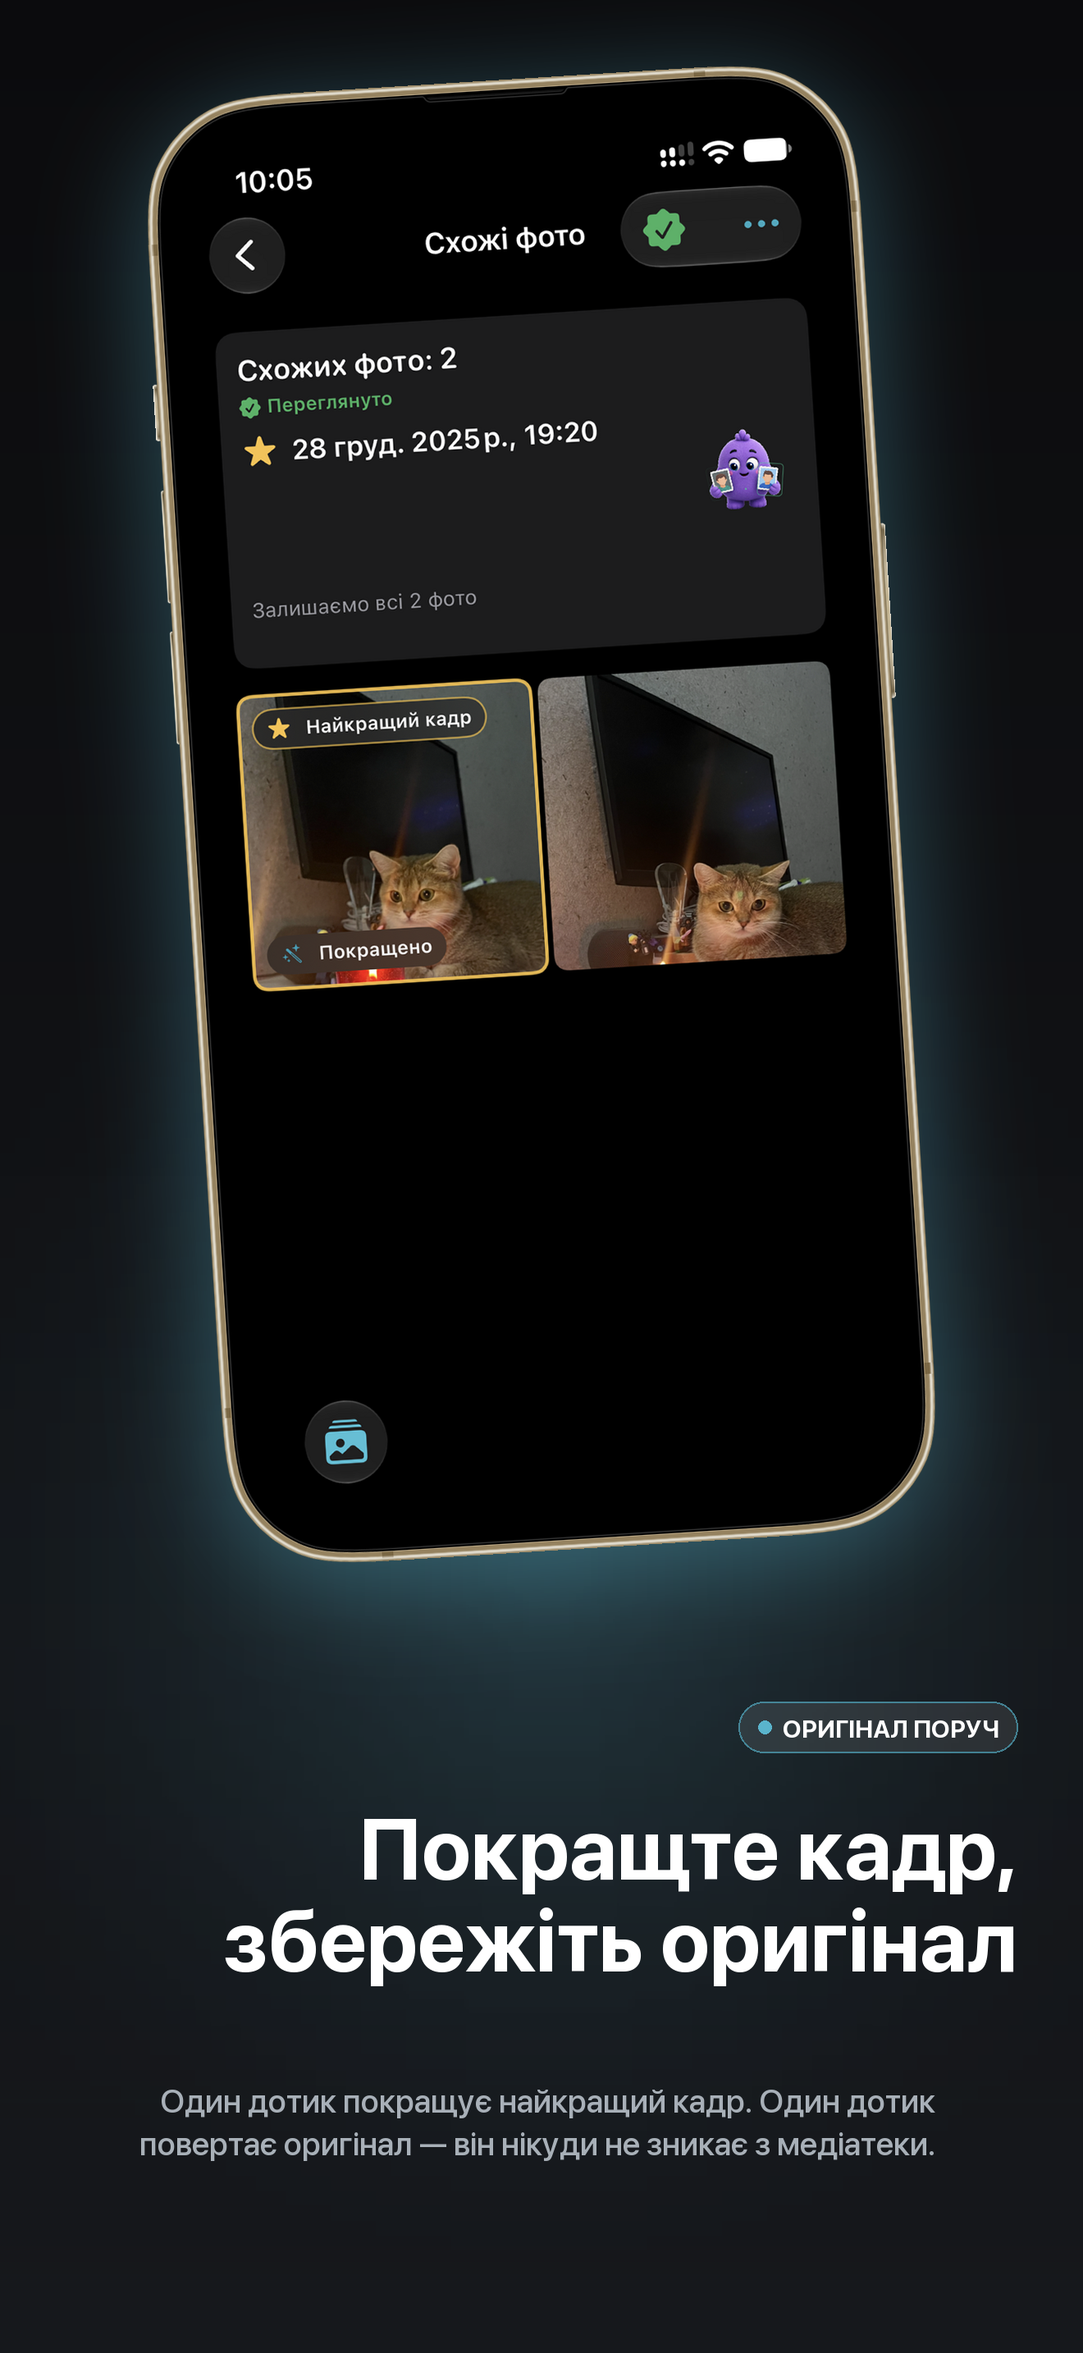
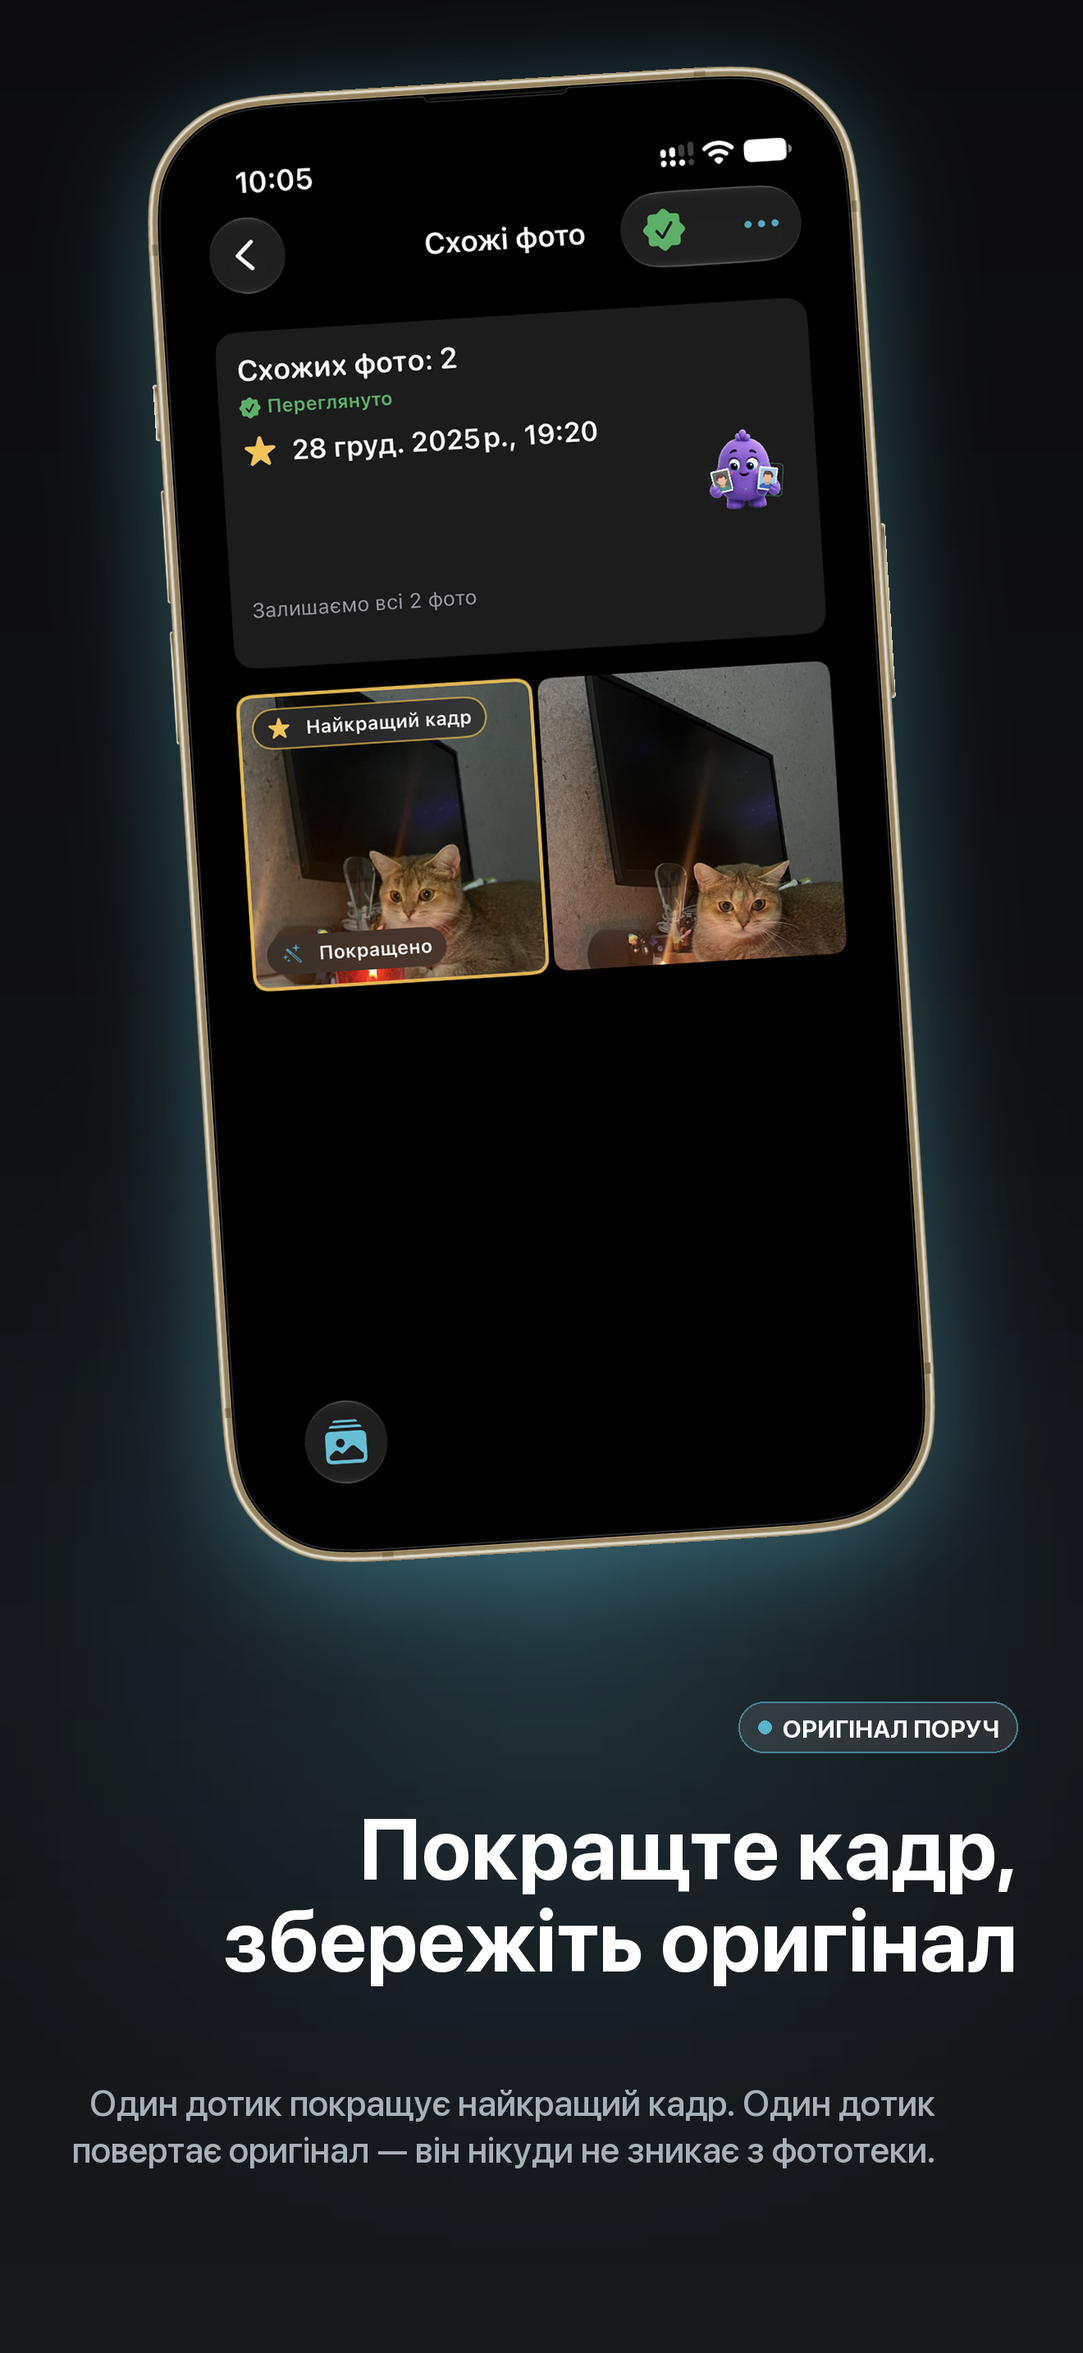
🌐 uk: correct high-risk localization and App Store wording while preserving English promises, placeholders and plural categories

Changed region(s): [[0.0621, 0.8689, 0.8697, 0.931]]

diff --git a/tools/prepare_app_store_upload_bundle.py b/tools/prepare_app_store_upload_bundle.py
@@ -1256,6 +1256,106 @@ METADATA.update(
 )
 
 
+# Reviewed storefront copy; keep regional listings independent.
+METADATA['uk'].update(
+    {'description': 'Поверніть місце на iPhone, і жодне фото не залишить ваш пристрій: Alike знаходить майже '
+                'однакові знімки у вашій фототеці, групує їх, обирає найкращий у кожній групі й допомагає '
+                'прибрати решту.\n'
+                '\n'
+                'ЯК ЦЕ ПРАЦЮЄ\n'
+                'Сканування. Alike порівнює фототеку за допомогою фреймворку Apple Vision повністю на вашому '
+                'iPhone. Порівнюються знімки, близькі за часом і місцем зйомки, а знімки екрана не '
+                'потрапляють у результати, якщо ви не попросите.\n'
+                'Перегляд. Кожна група відкривається з уже обраним найкращим знімком, тож рішення займає '
+                'секунди. «Залишити лише найкраще», «Обрати все крім найкращого» або вибір вручну.\n'
+                'Прибирання. Підтвердьте — і обрані фотографії потраплять до альбому «Недавно видалені», де '
+                'iOS зберігає їх близько 30 днів. Місце може не звільнитися, доки ви не видалите ці '
+                'фотографії остаточно.\n'
+                '\n'
+                'КОНФІДЕНЦІЙНІСТЬ — ЦЕ СУТЬ\n'
+                '- Увесь аналіз виконується на пристрої фреймворком Apple Vision.\n'
+                '- Жодне фото, ескіз чи відбиток ознак не завантажується в інтернет.\n'
+                '- Без облікового запису, без входу, без сервера Alike.\n'
+                '- Без аналітики, відстеження та рекламних ідентифікаторів.\n'
+                '- Без реклами в застосунку.\n'
+                '- Сканування та прибирання не потребують інтернету — Alike працює в режимі польоту.\n'
+                '- Нічого не видаляється без вашого явного підтвердження.\n'
+                '\n'
+                'СТВОРЕНО ДЛЯ СПРАВЖНІХ ФОТОТЕК\n'
+                '- Три рівні чутливості — від майже ідентичних знімків до ширшого пошуку.\n'
+                '- Вибір найкращого знімка за самими фотографіями — різкістю, експозицією, обличчями й '
+                'шумом, тож у кожній групі є розумний варіант залишити.\n'
+                '- Необовʼязкове покращення одним дотиком для знімка, який ви залишаєте, — оригінал завжди '
+                'за один дотик.\n'
+                '- Позначки: «Нове», «У перегляді», «Переглянуто», «Потребує перегляду».\n'
+                '- Додали чи видалили фото — Alike це помічає й повертає до перегляду лише ті групи, що '
+                'змінилися, без повного пересканування.\n'
+                '- Прогрес, «Обрано» й «Орієнтовна економія» просто під час роботи.\n'
+                '- Історія прибирання за місяцями — видно, скільки місця вже повернуто.\n'
+                '- Просторий один стовпець або щільніша сітка — перемикайте будь-коли, вибір '
+                'запам’ятовується.\n'
+                '- Довідка з пошуком просто в застосунку, за один дотик зі «Сканера».\n'
+                '- Необовʼязкові нагадування про прибирання — локальні сповіщення за вашим розкладом.\n'
+                '- Віджети на головному екрані й екрані блокування: місце, яке можна звільнити, й огляд '
+                'фототеки.\n'
+                '- Тринадцять мов і повна темна тема.\n'
+                '\n'
+                'ВИ КЕРУЄТЕ ВСІМ\n'
+                '- Покращення не змінює оригінал: він залишається у вашій фототеці, і один дотик повертає '
+                'його.\n'
+                '- Alike вчиться на найкращих знімках, які ви обираєте самі, — на вашому пристрої, і це '
+                'можна будь-коли скинути в налаштуваннях.\n'
+                '- «Дані та приватність» → «Видалити дані Alike» стирає всі результати сканувань, записи '
+                'прибирання й налаштування — і не торкається вашої фототеки.\n'
+                '- Надайте повний або обмежений доступ: Alike працює з тим, чим ви вирішили поділитися.\n'
+                '\n'
+                'ALIKE FREE\n'
+                '- 3 сканування на календарний місяць\n'
+                '- Покроковий перегляд із найкращим знімком\n'
+                '- Покращення одним дотиком, яке завжди можна скасувати\n'
+                '- Вибір найкращого знімка з урахуванням ваших рішень\n'
+                '- Сортування та історія прибирання\n'
+                '- Прибирання по одному фото за раз\n'
+                '- Віджети\n'
+                '\n'
+                'ALIKE PRO\n'
+                '- 7 днів безкоштовно на річному плані, для нових підписників, які мають на це право\n'
+                '- Необмежені сканування\n'
+                '- Прибирання всіх вибраних фотографій за один раз\n'
+                '- Прибирання знімків екрана\n'
+                '- Прибирання розмитих фото\n'
+                '- Розширені фільтри\n'
+                '- Власні нагадування про прибирання\n'
+                '\n'
+                'Alike Pro — це підписка з автоматичним поновленням, річний і місячний плани, ціни у вашій '
+                'валюті. Річний план містить 7 днів безкоштовно для нових підписників, які мають на це '
+                'право; оплата починається після завершення пробного періоду. Підписка поновлюється '
+                'автоматично, якщо її не скасувати щонайменше за 24 години до завершення поточного періоду, '
+                'а оплата стягується з вашого облікового запису Apple. Керувати підпискою або скасувати її '
+                'можна будь-коли в Налаштуваннях iOS.',
+ 'release_notes': 'Alike готовий до iOS 27: новий віджет і швидший спосіб розібрати фото.\n'
+                  '\n'
+                  '- Новий високий віджет показує, скільки місця можна звільнити, і ваші найбільші групи, а '
+                  'також веде до розділів «Схожі фото», «Знімки екрана» і «Розмиті фото». Додайте його з '
+                  'галереї віджетів на головному екрані.\n'
+                  '- У групі проведіть по фото, щоб «Вибрати», «Залишити» або зробити його найкращим кадром, '
+                  'не відкриваючи його. Цей жест працює і на екрані «Знімки екрана», і з VoiceOver.\n'
+                  '- Кнопки в «Очищенні» тепер вміщаються на менших iPhone, а фото відкриваються плавніше.\n'
+                  '- Малюнок на віджеті зберігає кольори, коли іконки на головному екрані тоновані або '
+                  'прозорі.\n'
+                  '\n'
+                  'Новий віджет, жести проведення і кнопки в «Очищенні» працюють на iOS 27.\n'
+                  '\n'
+                  'Усе так само виконується на вашому пристрої: без облікового запису й без вивантаження, а '
+                  'прибране потрапляє до альбому «Недавно видалені», де iOS зберігає його близько 30 днів.\n'
+                  '\n'
+                  'Відгуки та повідомлення про помилки дуже вітаються — посилання на підтримку на сторінці '
+                  'App Store веде безпосередньо до розробника.',
+ 'promotional_text': 'Оцініть місце для звільнення. Фото лишаються на iPhone. Річний план: 7 днів Pro '
+                     'безкоштовно для нових підписників, які мають на це право. Без реклами й акаунта.'}
+)
+
+
 def parse_args() -> argparse.Namespace:
     parser = argparse.ArgumentParser(description="Prepare Alike App Store metadata and screenshots for fastlane deliver.")
     parser.add_argument(

diff --git a/tools/generate_app_store_product_screenshots.py b/tools/generate_app_store_product_screenshots.py
@@ -308,7 +308,7 @@ COPY = {
         (
             "НА ПРИСТРОЇ",
             "Знайдіть схожі\nфотографії",
-            "Alike сканує медіатеку через Apple Vision повністю на вашому iPhone.",
+            "Alike сканує фототеку через Apple Vision повністю на вашому iPhone.",
         ),
         (
             "ЧЕРГА",
@@ -333,12 +333,12 @@ COPY = {
         (
             "ОРИГІНАЛ ПОРУЧ",
             "Покращте кадр,\nзбережіть оригінал",
-            "Один дотик покращує найкращий кадр. Один дотик повертає оригінал — він нікуди не зникає з медіатеки.",
+            "Один дотик покращує найкращий кадр. Один дотик повертає оригінал — він нікуди не зникає з фототеки.",
         ),
         (
-            "ДОМАШНІЙ ЕКРАН",
+            "ГОЛОВНИЙ ЕКРАН",
             "Видно, не\nвідкриваючи Alike",
-            "Два віджети: скільки місця можна звільнити і що лишилось у медіатеці.",
+            "Два віджети: скільки місця можна звільнити і що лишилось у фототеці.",
         ),
     ],
     # The line break in each headline is chosen for that language, not carried
